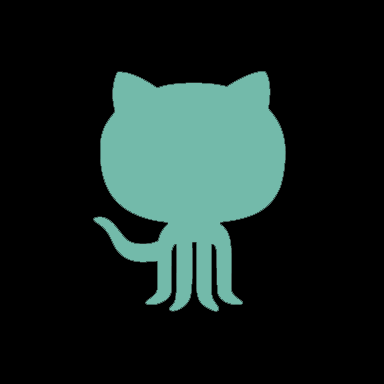
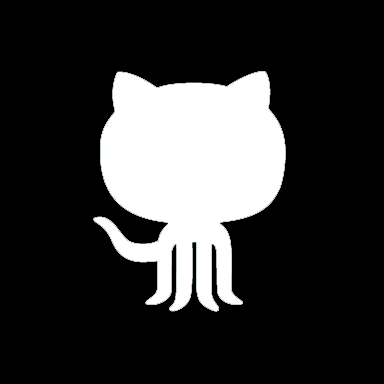
Update theme

Changed region(s): [[0.25, 0.1875, 0.75, 0.8125]]

diff --git a/assets/stylesheets/main.css b/assets/stylesheets/main.css
@@ -72,29 +72,31 @@ table {
 
 body, html {
     background: #466368;
-    background: -webkit-linear-gradient(#73BAAA 25%, #002d60);
+    background-color: white;
+    /*background: -webkit-linear-gradient(#73BAAA 25%, #002d60);
     background: -moz-linear-gradient(#73BAAA 25%, #002d60);
-    background: linear-gradient(#73BAAA 25%, #002d60);
+    background: linear-gradient(#73BAAA 25%, #002d60);*/
 }
 
 a {
     text-decoration: none;
     font: 14px/150% 'Raleway', Arial, sans-serif;
-    color: #949494;
+    color: #2B2B2B;
 }
 
 h1 {
     font: 50px/150% 'Raleway', Arial, sans-serif;
+    color: black;
 }
 
 h2 {
     font: 40px/150% 'Raleway', Arial, sans-serif;
-    color: #2B2B2B;
+    color: black;
 }
 
 h3 {
     font: 500 16px/150% 'Raleway', Arial, sans-serif;
-    color: #FF7700;
+    color: #0090ff;
 }
 
 h4 {
@@ -104,7 +106,7 @@ h4 {
 
 p {
     font: 14px/150% 'PT Sans', Arial, sans-serif;
-    color: #949494;
+    color: white;
     margin-bottom: 20px;
 }
 
@@ -125,12 +127,12 @@ figure {
 
 ::selection {
     background: #2B2B2B;
-    color: #FF7700;
+    color: #0090ff;
 }
 
 ::-moz-selection {
     background: #2B2B2B;
-    color: #FF7700;
+    color: #0090ff;
 }
 
 ::-webkit-scrollbar {
@@ -144,7 +146,7 @@ figure {
 }
 
 ::-webkit-scrollbar-thumb {
-    background-color: #FF7700;
+    background-color: #0090ff;
 }
 
 /* CH02 - Navigation Menu */
@@ -156,8 +158,9 @@ figure {
     position: fixed;
     bottom: 0;
     z-index: 10000;
-    border-top: 2px solid #FF7700;
-    background-color: rgba(0, 0, 0, 0.8);
+    border-top: 2px solid #0090ff;
+    background-color: white;
+    /*background-color: rgba(0, 0, 0, 0.8);*/
 }
 
 #fixed-nav-bar li {
@@ -178,11 +181,11 @@ figure {
 }
 
 #fixed-nav-bar li a:hover {
-    color: #FF7700;
+    color: #0090ff;
 }
 
 #fixed-nav-bar .active {
-    color: #FF7700;
+    color: #0090ff;
 }
 
 /* CH03 - Title Screen */
@@ -210,7 +213,7 @@ figure {
 .border-text {
     display: inline-block;
     padding: 5px 10px;
-    border: 2px solid #FF7700;
+    border: 2px solid #0090ff;
 }
 
 /* CH05 - About Screen */
@@ -222,7 +225,7 @@ figure {
 
 .border-img {
     float: left;
-    border: 2px solid white;
+    border: 2px solid #2B2B2B;
     margin-top: 5px;
 }
 
@@ -262,7 +265,7 @@ figure {
     border-radius: 2px;
     position: relative;
     box-shadow: 0 10px 10px -5px rgba(0, 0, 0, 0.5);
-    background-color: white;
+    background-color: #2B2B2B;
     font-size: 14px;
     -webkit-transition: all .3s ease, opacity 2s ease, top 1s ease;
     -o-transition: all .3s ease, opacity 2s ease, top 1s ease;
@@ -306,7 +309,7 @@ figcaption p {
 
 figcaption a {
     font: bold 12px/150% 'PT Sans', Arial, sans-serif;
-    color: #FF7700;
+    color: #0090ff;
     -moz-transition: color .5s ease;
     -o-transition: color .5s ease;
     -webkit-transition: color .5s ease;
@@ -322,7 +325,7 @@ figcaption a {
     text-transform: uppercase;
     text-align: center;
     border-radius: 1px;
-    background-color: #FF7700;
+    background-color: #0090ff;
     position: absolute;
     bottom: 30px;
     left: 15px;
@@ -370,7 +373,7 @@ figcaption a:hover {
 #contact {
     margin: 0;
     text-align: center;
-    background-image: url('../images/background.png');
+    background-image: url('../images/background2.png');
     background-size: cover;
 }
 

diff --git a/index.html b/index.html
@@ -41,7 +41,7 @@
 
 <section id="contact">
     <div class="top-relative">
-        <h2 id="contact-title">Contact Me</h2>
+        <h2>Contact Me</h2>
     </div>
     <div class="centered-absolute">
         <div class = "icon-row">
@@ -197,7 +197,7 @@
         <a href=#about><img src="assets/images/up-arrow.png" width="50px" height="25px"></a>
     </div>
     <div class="centered-absolute">
-        <h1 id="title-name">Ellen Luo</h1>
+        <h1>Ellen Luo</h1>
         <h3 class="border-text" id="title-desc">Developer &middot; Designer &middot; Athlete &middot; Musician &middot;
             Innovator</h3>
     </div>
